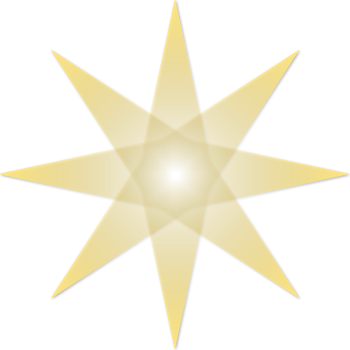
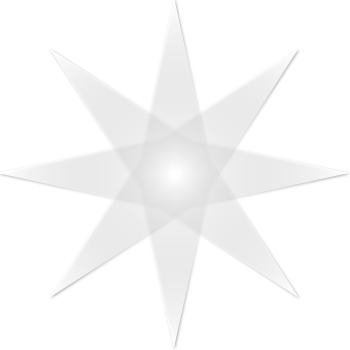
! Achievements können nun unbegrenzt oft erspielt werden, bei Erhalt eines neuen wird aber gesondert informiert. * Highlight bei Infografik kann nun gefärbt werden.

Changed region(s): [[0.0, 0.0, 1.0, 1.0]]

diff --git a/ModernCombatFINALTRY.c4d/Rules.c4d/Rewards.c4d/Script.c b/ModernCombatFINALTRY.c4d/Rules.c4d/Rewards.c4d/Script.c
@@ -295,20 +295,38 @@ global func ResetPlayerAchievements(int iPlr)
   return true;
 }
 
+/* Vergabe */
+
 global func AwardAchievement(id idAchievement, int iPlr)
 {
-  //Keine Belohnungen?
+  //Vergabe berechtigt?
   if(!RewardsActive()) return;
-
-  if(GetLeague()) return false;
   if(GetPlayerType(iPlr) != C4PT_User) return false;
   if(!idAchievement->IsInfoObject()) return false;
+
+  //Achievement noch nicht in Spielerdatei?
   var iData = GetPlrExtraData(iPlr, "CMC_Achievements");
-  if(iData >> idAchievement->GetSavingSlot() & 1) return;
-  SetPlrExtraData(iPlr, "CMC_Achievements", iData ^ 1 << idAchievement->GetSavingSlot());
-  EventInfo4K(0, Format("$AchievementUnlocked$", GetPlrColorDw(iPlr), GetPlayerName(iPlr), GetName(0, idAchievement)), RWDS);
-  CreateObject(idAchievement, 0, 0, iPlr);
+  if(!(iData >> idAchievement->GetSavingSlot() & 1))
+  {
+    //Achievement in Spielerdatei schreiben
+    SetPlrExtraData(iPlr, "CMC_Achievements", iData ^ 1 << idAchievement->GetSavingSlot());
+
+    //Achievementanzeige mit blauem Hintergrund
+    var achievement = CreateObject(idAchievement, 0, 0, iPlr);
+    achievement->SetHighlightColor(RGB(0,153,255));
+    EventInfo4K(0, Format("$AchievementNewUnlocked$", GetPlrColorDw(iPlr), GetPlayerName(iPlr), GetName(0, idAchievement)), RWDS, 0, 0, 0, "PriorityInfo.ogg");
+  }
+  else
+  {
+    //Achievementanzeige mit gelben Hintergrund
+    var achievement = CreateObject(idAchievement, 0, 0, iPlr);
+    achievement->SetHighlightColor(RGB(255,204,0));
+    EventInfo4K(0, Format("$AchievementUnlocked$", GetPlrColorDw(iPlr), GetPlayerName(iPlr), GetName(0, idAchievement)), RWDS, 0, 0, 0, "PriorityInfo.ogg");
+  }
+
+  //Sound-Hinweis
   Sound("AchievementGet.ogg", true, 0, 100, iPlr+1);
+
   return true;
 }
 
